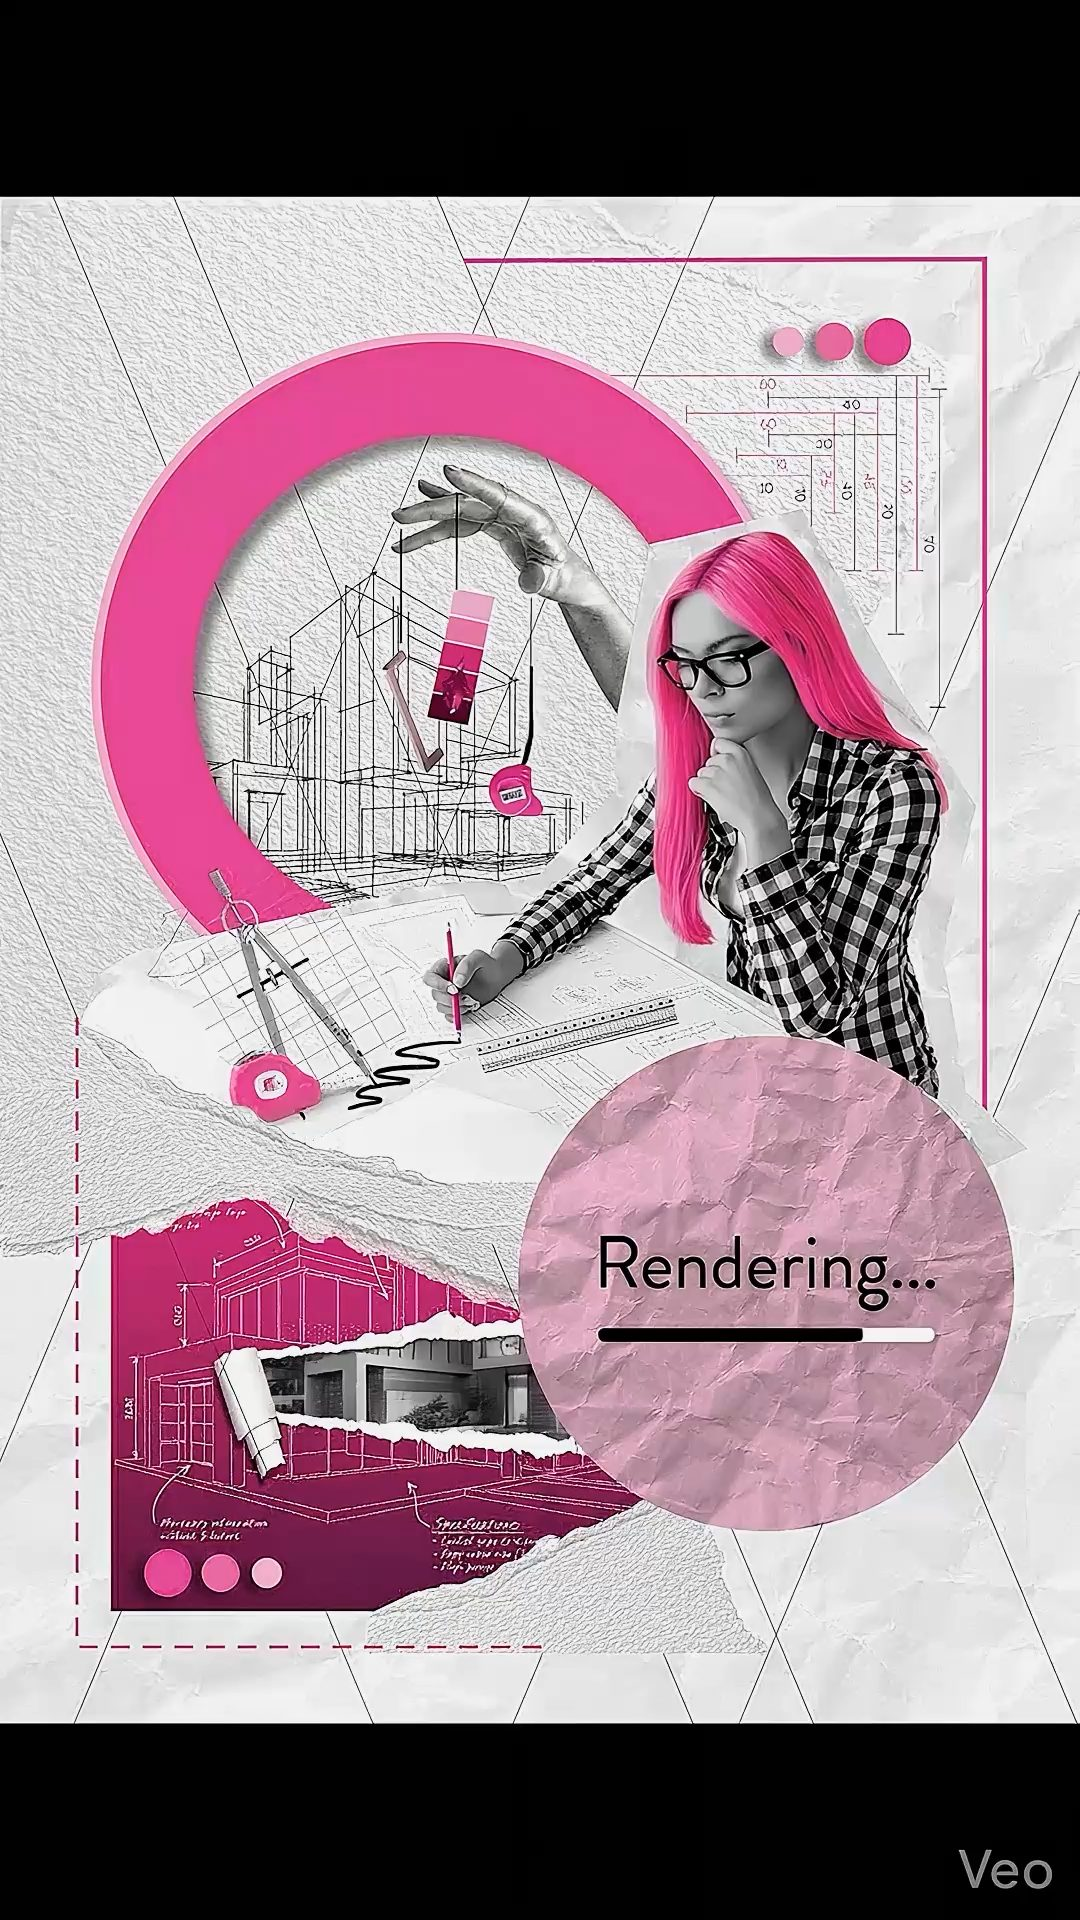
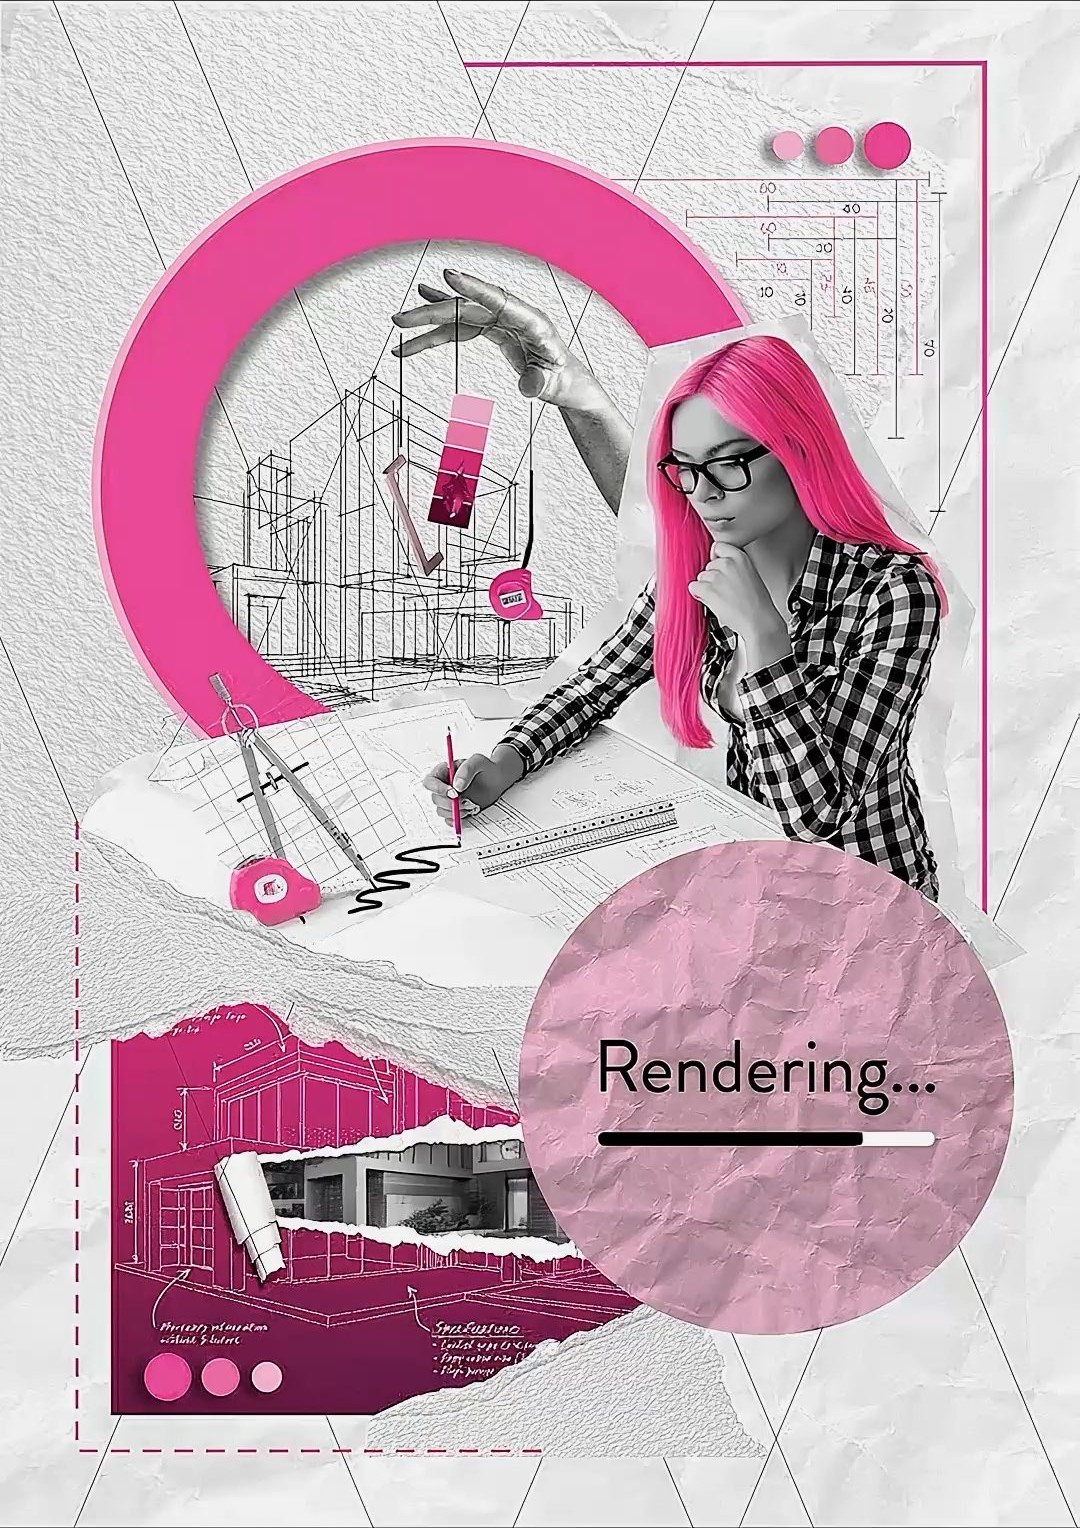
Review: set media size and alignment by hand; DIMENSO posters without the black bars
Claude-Session: https://claude.ai/code/session_017Ed9q8nUGjQkjXxfaSbXdR

diff --git a/src/review/ReviewProvider.jsx b/src/review/ReviewProvider.jsx
@@ -4,14 +4,15 @@ import SerifTrial from './SerifTrial.jsx';
 import styles from './Review.module.css';
 
 // Review-only media editing, active in the claude.ai review copy
-// (VITE_ROUTER=hash). Writers can swap any image or video for an upload:
-// files go to the artifact's asset store, and `media/<key>` in its db
-// records which asset replaces which slot, so Claude can read the
-// replacements back and move them into the real site. The GitHub Pages
-// build never runs any of this.
+// (VITE_ROUTER=hash). Writers can swap any image or video for an upload,
+// and set how wide it sits in its slot (and on which side). Files go to
+// the artifact's asset store; `media/<key>` in its db records the
+// replacement asset and/or `size: {width, align}`, so Claude can read
+// them back and move them into the real site. The GitHub Pages build
+// never runs any of this.
 const ENABLED = import.meta.env.VITE_ROUTER === 'hash';
 
-const ReviewContext = createContext({ editing: false, overrides: {}, select: () => {}, selected: null });
+const ReviewContext = createContext({ editing: false, overrides: {}, sizes: {}, select: () => {}, selected: null });
 export const useReview = () => useContext(ReviewContext);
 
 // Scope (project slug) so identical file names in two projects stay apart.
@@ -34,10 +35,20 @@ export function useMediaKey(src, note) {
   return `${scope}__${base}`;
 }
 
+// Inline style for a size: width as a share of the slot, and the side
+// the media sits on when it is narrower than the slot.
+const ALIGN_LABELS = { start: 'left', center: 'center', end: 'right' };
+const MARGINS = { start: '0 auto 0 0', center: '0 auto', end: '0 0 0 auto' };
+export function sizeStyle(size) {
+  if (!size?.width || size.width >= 100) return undefined;
+  return { width: `${size.width}%`, margin: MARGINS[size.align] || MARGINS.center };
+}
+
 // Props for a media element: in edit mode it becomes clickable/selectable.
 export function useEditableMedia(key) {
-  const { editing, overrides, select, selected } = useReview();
+  const { editing, overrides, sizes, select, selected } = useReview();
   const override = overrides[key];
+  const size = sizes[key];
   const editProps = editing
     ? {
         'data-media-key': key,
@@ -49,7 +60,7 @@ export function useEditableMedia(key) {
         },
       }
     : {};
-  return { override, editProps };
+  return { override, size, editProps };
 }
 
 const ERRORS = {
@@ -62,7 +73,8 @@ const ERRORS = {
 export function ReviewProvider({ children }) {
   const [canEdit, setCanEdit] = useState(false);
   const [editing, setEditing] = useState(false);
-  const [overrides, setOverrides] = useState({});
+  const [docs, setDocs] = useState({});
+  const [draft, setDraft] = useState(null); // size being dragged, before it saves
   const [selected, setSelected] = useState(null);
   const [status, setStatus] = useState('');
   const [busy, setBusy] = useState(false);
@@ -80,10 +92,9 @@ export function ReviewProvider({ children }) {
         (snap) => {
           const next = {};
           snap.docs.forEach((doc) => {
-            const data = doc.data();
-            if (data?.assetId) next[doc.id] = { url: `/_blob/${data.assetId}`, contentType: data.contentType || '' };
+            next[doc.id] = doc.data() || {};
           });
-          setOverrides(next);
+          setDocs(next);
         },
         () => setStatus('Lost the connection to saved media. Reload the page.'),
       );
@@ -95,10 +106,49 @@ export function ReviewProvider({ children }) {
     };
   }, []);
 
+  const overrides = {};
+  const sizes = {};
+  Object.entries(docs).forEach(([key, data]) => {
+    if (data.assetId) overrides[key] = { url: `/_blob/${data.assetId}`, contentType: data.contentType || '' };
+    if (data.size?.width) sizes[key] = data.size;
+  });
+  if (draft) sizes[draft.key] = draft.size;
+
   const select = useCallback((key) => {
     setSelected(key);
     setStatus('');
   }, []);
+
+  // Writes the slot's whole record (set, not update: the doc may not
+  // exist yet); an empty record is deleted.
+  const writeDoc = async (key, data) => {
+    const { db } = caps.current;
+    const doc = db.collection('media').doc(key);
+    if (Object.keys(data).length) await doc.set(data);
+    else await doc.delete();
+  };
+
+  // Dragging the slider previews at once; the save waits for a pause.
+  const saveTimer = useRef(null);
+  const resize = (patch) => {
+    if (!selected) return;
+    const current = (draft?.key === selected && draft.size) || sizes[selected] || { width: 100, align: 'center' };
+    const size = { ...current, ...patch };
+    setDraft({ key: selected, size });
+    clearTimeout(saveTimer.current);
+    saveTimer.current = setTimeout(async () => {
+      // eslint-disable-next-line no-unused-vars
+      const { size: _size, sizeUpdatedAt: _at, ...rest } = docs[selected] || {};
+      try {
+        await writeDoc(selected, size.width >= 100 ? rest : { ...rest, size, sizeUpdatedAt: new Date().toISOString() });
+        setStatus(size.width >= 100 ? 'Full size.' : `Saved: ${size.width}%, ${ALIGN_LABELS[size.align]}.`);
+      } catch {
+        setStatus('Could not save the size. Try again.');
+      } finally {
+        setDraft(null);
+      }
+    }, 450);
+  };
 
   const upload = async (file) => {
     const { db, assets } = caps.current;
@@ -107,12 +157,16 @@ export function ReviewProvider({ children }) {
     setStatus(`Uploading ${file.name}…`);
     try {
       const result = await assets.upload(file);
-      await db.collection('media').doc(selected).set({
-        assetId: result.id,
-        contentType: result.contentType,
-        fileName: file.name,
-        updatedAt: new Date().toISOString(),
-      });
+      await db
+        .collection('media')
+        .doc(selected)
+        .set({
+          ...(docs[selected]?.size ? { size: docs[selected].size } : {}),
+          assetId: result.id,
+          contentType: result.contentType,
+          fileName: file.name,
+          updatedAt: new Date().toISOString(),
+        });
       setStatus(`Replaced with ${file.name}.`);
     } catch (error) {
       setStatus(ERRORS[error?.code] || 'Upload failed. Try again.');
@@ -126,7 +180,8 @@ export function ReviewProvider({ children }) {
     const { db } = caps.current;
     if (!db || !selected) return;
     try {
-      await db.collection('media').doc(selected).delete();
+      const { size } = docs[selected] || {};
+      await writeDoc(selected, size ? { size } : {});
       setStatus('Back to the original.');
     } catch {
       setStatus('Could not restore the original. Try again.');
@@ -134,7 +189,7 @@ export function ReviewProvider({ children }) {
   };
 
   return (
-    <ReviewContext.Provider value={{ editing, overrides, select, selected }}>
+    <ReviewContext.Provider value={{ editing, overrides, sizes, select, selected }}>
       {children}
       {ENABLED && (
         <div className={styles.bar} role="region" aria-label="Review tools">
@@ -153,6 +208,36 @@ export function ReviewProvider({ children }) {
                 hidden
                 onChange={(event) => upload(event.target.files?.[0])}
               />
+              {selected && (
+                <span className={styles.sizer}>
+                  <label htmlFor="review-media-size">Size</label>
+                  <input
+                    id="review-media-size"
+                    type="range"
+                    min="20"
+                    max="100"
+                    step="1"
+                    value={sizes[selected]?.width || 100}
+                    onChange={(event) => resize({ width: Number(event.target.value) })}
+                  />
+                  <output htmlFor="review-media-size">{sizes[selected]?.width || 100}%</output>
+                  {[
+                    ['start', 'Left'],
+                    ['center', 'Center'],
+                    ['end', 'Right'],
+                  ].map(([align, label]) => (
+                    <button
+                      type="button"
+                      key={align}
+                      aria-pressed={(sizes[selected]?.align || 'center') === align}
+                      disabled={(sizes[selected]?.width || 100) >= 100}
+                      onClick={() => resize({ align })}
+                    >
+                      {label}
+                    </button>
+                  ))}
+                </span>
+              )}
               <button type="button" disabled={!selected || busy} onClick={() => fileInput.current?.click()}>
                 Upload replacement
               </button>
@@ -174,7 +259,7 @@ export function ReviewProvider({ children }) {
                 setStatus('');
               }}
             >
-              {editing ? 'Done' : 'Replace media'}
+              {editing ? 'Done' : 'Edit media'}
             </button>
           )}
         </div>

diff --git a/src/components/MediaPlaceholder.jsx b/src/components/MediaPlaceholder.jsx
@@ -1,12 +1,15 @@
-import { useEditableMedia, useMediaKey } from '../review/ReviewProvider.jsx';
+import { sizeStyle, useEditableMedia, useMediaKey } from '../review/ReviewProvider.jsx';
 import styles from './MediaPlaceholder.module.css';
 
 // Renders real media when `src` is given — always at its own aspect
 // ratio, never cropped (per Neama) — otherwise a labeled placeholder box
 // at `ratio` (used only where no real asset exists yet).
-// In the review copy, an uploaded replacement takes the slot's place.
-export default function MediaPlaceholder({ kind = 'image', note, ratio, src }) {
-  const { override, editProps } = useEditableMedia(useMediaKey(src, note));
+// `size` ({width: % of the slot, align: start|center|end}) narrows it
+// inside its slot. In the review copy, an uploaded replacement and a size
+// set by hand take the slot's place.
+export default function MediaPlaceholder({ kind = 'image', note, ratio, src, size }) {
+  const { override, size: editedSize, editProps } = useEditableMedia(useMediaKey(src, note));
+  const style = sizeStyle(editedSize || size);
   const { className: editClass = '', ...handlers } = editProps;
   const mediaSrc = override?.url || src;
   const mediaKind = override ? (override.contentType.startsWith('video/') ? 'video' : 'image') : kind;
@@ -15,16 +18,20 @@ export default function MediaPlaceholder({ kind = 'image', note, ratio, src }) {
     const className = `${styles.media} ${editClass}`;
     if (mediaKind === 'video') {
       return override ? (
-        <video className={className} src={mediaSrc} autoPlay muted loop playsInline {...handlers} />
+        <video className={className} style={style} src={mediaSrc} autoPlay muted loop playsInline {...handlers} />
       ) : (
-        <video className={className} src={mediaSrc} controls playsInline {...handlers} />
+        <video className={className} style={style} src={mediaSrc} controls playsInline {...handlers} />
       );
     }
-    return <img className={className} src={mediaSrc} alt={note || ''} decoding="async" {...handlers} />;
+    return <img className={className} style={style} src={mediaSrc} alt={note || ''} decoding="async" {...handlers} />;
   }
 
   return (
-    <div className={`${styles.placeholder} ${editClass}`} style={ratio ? { '--ratio': ratio } : undefined} {...handlers}>
+    <div
+      className={`${styles.placeholder} ${editClass}`}
+      style={{ ...(ratio ? { '--ratio': ratio } : {}), ...style }}
+      {...handlers}
+    >
       <div>
         <span className={styles.kind}>{kind === 'video' ? '▶ video' : 'image'} placeholder</span>
         {note && <span>{note}</span>}

diff --git a/src/components/Gallery.jsx b/src/components/Gallery.jsx
@@ -6,7 +6,9 @@ import styles from './Gallery.module.css';
 // An item with a caption (a drawing's title and scale) is set as a figure,
 // the caption small above the media.
 function Media({ item, ratio }) {
-  const media = <MediaPlaceholder kind={item.kind} note={item.note} src={item.src} ratio={item.ratio || ratio} />;
+  const media = (
+    <MediaPlaceholder kind={item.kind} note={item.note} src={item.src} ratio={item.ratio || ratio} size={item.size} />
+  );
   if (!item.caption) return media;
   return (
     <figure className={styles.figure}>

diff --git a/src/review/Review.module.css b/src/review/Review.module.css
@@ -61,6 +61,29 @@
   color: var(--color-bg);
 }
 
+/* Size: a slider for width (% of the slot) and the side it sits on. */
+.sizer {
+  display: inline-flex;
+  flex-wrap: wrap;
+  align-items: center;
+  gap: 8px;
+}
+
+.sizer input[type='range'] {
+  width: 140px;
+  accent-color: var(--color-ink);
+}
+
+.sizer output {
+  min-width: 4ch;
+  font-variant-numeric: tabular-nums;
+}
+
+.bar button[aria-pressed='true']:not(.toggle) {
+  background: var(--color-ink);
+  color: var(--color-bg);
+}
+
 .status {
   min-width: 0;
   padding: 0 4px;
